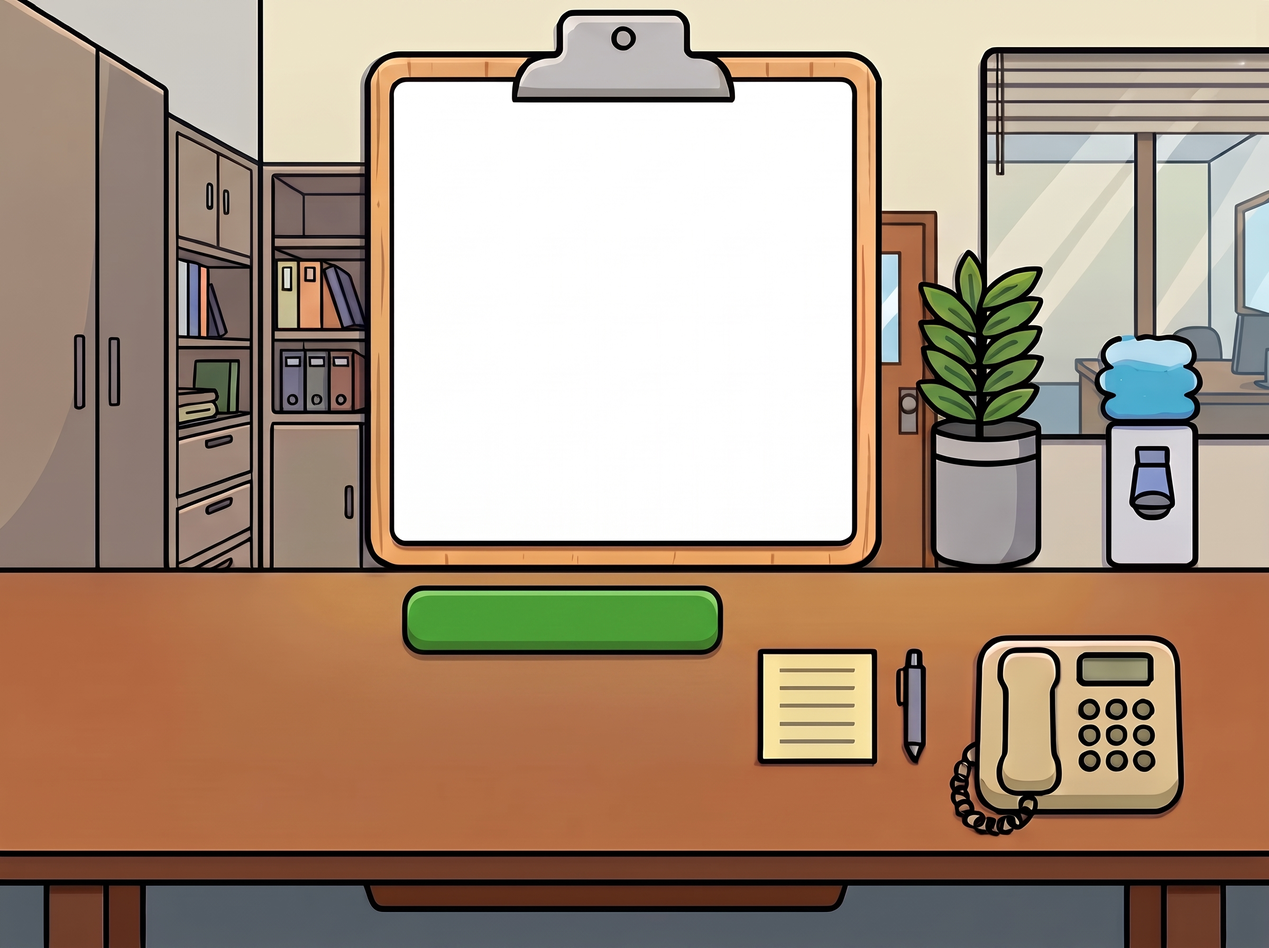
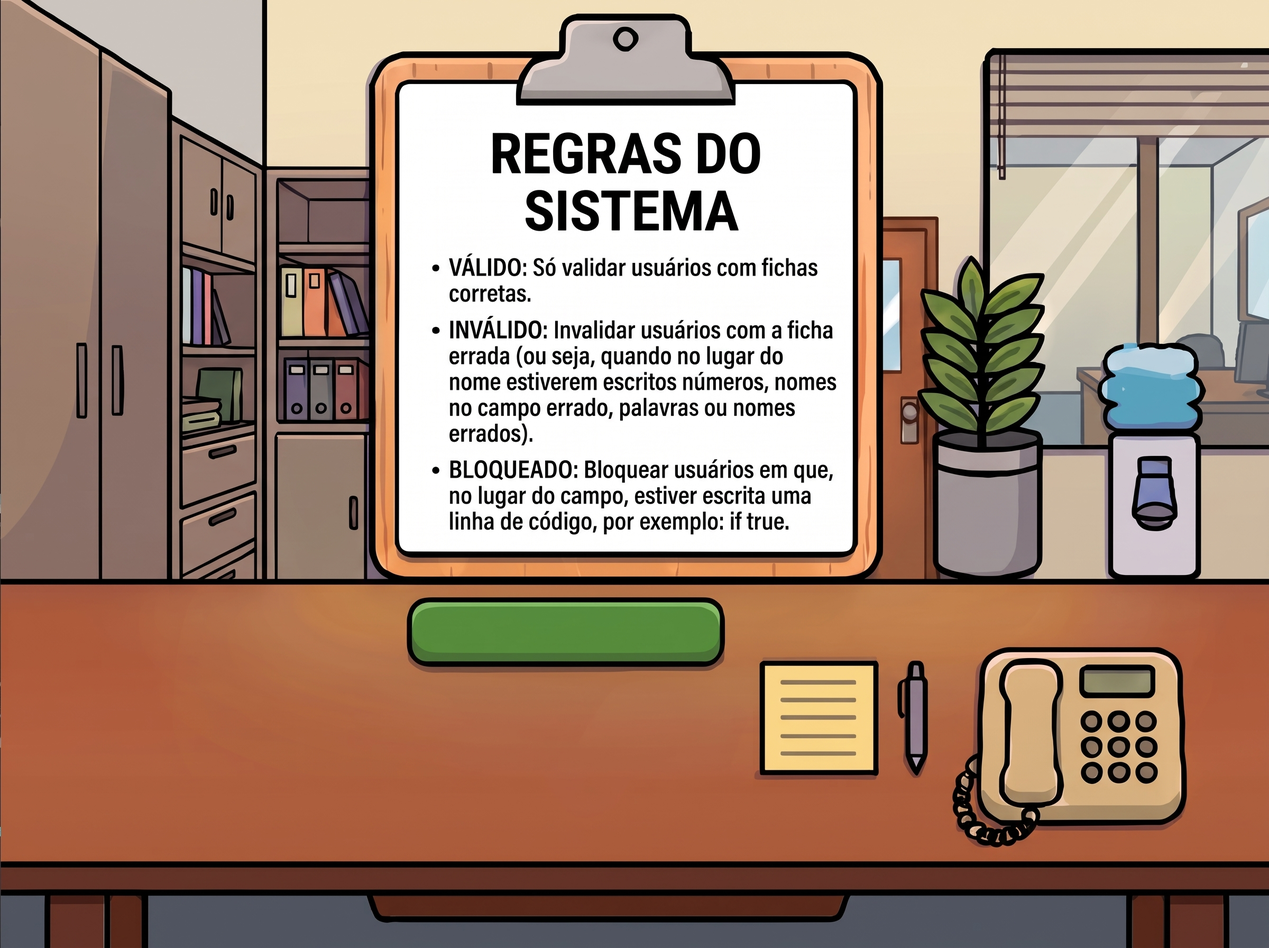
Parte-2 do trabalho. Adicionando fichas, telas, loops, pontuação, funções, dicionario, imagens e telas finais.

diff --git a/src/jogo.py b/src/jogo.py
@@ -1,95 +1,209 @@
 import sys
 import pygame
+from fichas import FICHAS
+from funcoes import avaliar_escolha, obter_mensagem_final
+from dados import criar_estado_inicial, salvar_recorde, carregar_recorde
 
 pygame.init()
 
-# Inicializar
-tela = pygame.display.set_mode((700, 600))
-pygame.display.set_caption("RPG: IA_Validação_de_sistema")
+# CONFIGURAÇÃO DA JANELA 
+LARGURA, ALTURA = 800, 600
+tela = pygame.display.set_mode((LARGURA, ALTURA))
+pygame.display.set_caption("Firewall.IA")
 
-# Imagens de fundo
-fundo_primeira = pygame.image.load("assets/imagens/escritorio/pag2.jpg").convert()
-fundo_primeira = pygame.transform.scale(fundo_primeira, (700, 600))
-
-fundo_segunda = pygame.image.load("assets/imagens/escritorio/pag1.jpg").convert()
-fundo_segunda = pygame.transform.scale(fundo_segunda, (700, 600))
-
-fundo_escritorio = pygame.image.load("assets/imagens/escritorio/escritorio.jpg").convert()
-fundo_escritorio = pygame.transform.scale(fundo_escritorio, (700, 600))
+# CARREGAR IMAGENS DE FUNDO
+fundo_inicio = pygame.transform.scale(
+    pygame.image.load("assets/imagens/escritorio/pag1.jpg").convert(), (LARGURA, ALTURA)
+)
+fundo_regras = pygame.transform.scale(
+    pygame.image.load("assets/imagens/escritorio/pag2.jpg").convert(), (LARGURA, ALTURA)
+)
+fundo_jogo = pygame.transform.scale(
+    pygame.image.load("assets/imagens/escritorio/escritorio.jpg").convert(), (LARGURA, ALTURA)
+)
 
 relogio = pygame.time.Clock()
 rodando = True
+tela_atual = "INICIO"  # Estados: "INICIO", "REGRAS", "JOGO", "FINAL"
 
-# Controla qual tela está ativa: "INICIO(pag1)", "REGRAS(pag2)" ou "JOGO(casos)"
-tela_atual = "INICIO"
+# ESTADO INICIAL DA PARTIDA
+estado = criar_estado_inicial()
+ARQUIVO_RECORDE = "recorde.txt"
+recorde = carregar_recorde(ARQUIVO_RECORDE)
 
-# Retângulos dos botões (ajuste as posições x, y se precisar alinhar com a sua arte)
-btn_jogar = pygame.Rect(200, 375, 220, 38)
-btn_continuar = pygame.Rect(200, 375, 220, 38) # Botão para sair das regras e ir pro jogo
+# BOTÕES CLICÁVEIS   
+btn_jogar = pygame.Rect(255, 372, 195, 45) # Botão jogar
+btn_iniciar = pygame.Rect(255, 375, 195, 45) # Botão iniciar
+btn_valido = pygame.Rect(125, 380, 215, 35)  # Botão verde VÁLIDO
+btn_invalido = pygame.Rect(130, 430, 215, 35) # Botão amarelo INVÁLIDO
+btn_bloqueado = pygame.Rect(140, 480, 215, 35) # Botão vermelho BLOQUEADO
+btn_reiniciar = pygame.Rect(280, 400, 240, 45) # Botão na tela final
 
-btn_valido = pygame.Rect(100, 380, 220, 35)
-btn_invalido = pygame.Rect(100, 430, 235, 35)
-btn_bloqueado = pygame.Rect(100, 480, 260, 35)
+# Fontes
+fonte_titulo = pygame.font.SysFont("Arial", 22, bold=True)
+fonte_texto = pygame.font.SysFont("Arial", 18, bold=True)
+fonte_botao = pygame.font.SysFont("Arial", 20, bold=True)
 
-fonte = pygame.font.SysFont("Arial", 24, bold=True)
+
+def carregar_foto_ficha(ficha):
+    """Carrega a imagem do personagem da ficha atual."""
+    caminho = ficha.get("imagem", "")
+    if caminho:
+        try:
+            img = pygame.image.load(caminho).convert_alpha()
+            return pygame.transform.scale(img, (80, 80))
+        except FileNotFoundError:
+            return None
+    return None
+
+
+def desenhar_texto_quebrado(superficie, texto, fonte, cor, x, y, largura_maxima):
+    """Quebra o texto em duas linhas caso o nome seja muito comprido para a prancheta."""
+    palavras = texto.split(" ")
+    linhas = []
+    linha_atual = ""
+
+    for palavra in palavras:
+        teste = f"{linha_atual} {palavra}".strip()
+        if fonte.size(teste)[0] <= largura_maxima:
+            linha_atual = teste
+        else:
+            linhas.append(linha_atual)
+            linha_atual = palavra
+    if linha_atual:
+        linhas.append(linha_atual)
+
+    for i, linha in enumerate(linhas):
+        render = fonte.render(linha, True, cor)
+        superficie.blit(render, (x, y + i * 22))
+
+    return len(linhas)
+
+
+foto_atual = carregar_foto_ficha(FICHAS[0])
 
 while rodando:
-    # 1. EVENTOS (Cliques e Teclado)
+    # 1. APENAS EVENTOS E CLIQUES AQUI DENTRO
     for evento in pygame.event.get():
         if evento.type == pygame.QUIT:
             rodando = False
 
-        # Clique do mouse
         if evento.type == pygame.MOUSEBUTTONDOWN and evento.button == 1:
             if tela_atual == "INICIO":
                 if btn_jogar.collidepoint(evento.pos):
                     tela_atual = "REGRAS"
 
             elif tela_atual == "REGRAS":
-                
-                # Clique no botão ou em qualquer lugar para avançar pro jogo
-                if btn_continuar.collidepoint(evento.pos):
+                if btn_iniciar.collidepoint(evento.pos):
                     tela_atual = "JOGO"
-            
 
             elif tela_atual == "JOGO":
+                escolha = None
                 if btn_valido.collidepoint(evento.pos):
-                    print("VÁLIDO!")
+                    escolha = "valido"
                 elif btn_invalido.collidepoint(evento.pos):
-                    print("INVÁLIDO!")
+                    escolha = "invalido"
                 elif btn_bloqueado.collidepoint(evento.pos):
-                    print("BLOQUEADO!")
+                    escolha = "bloqueado"
 
-        # Teclado (Enter avança das regras para o jogo)
-        if evento.type == pygame.KEYDOWN:
-            if tela_atual == "REGRAS" and evento.key == pygame.K_RETURN:
-                tela_atual = "JOGO"
+                if escolha is not None:
+                    ficha_atual = FICHAS[estado["indice_ficha"]]
+                    (
+                        estado["pontos"],
+                        estado["houve_invasao"],
+                        estado["houve_erro"],
+                    ) = avaliar_escolha(
+                        ficha_atual,
+                        escolha,
+                        estado["pontos"],
+                        estado["houve_invasao"],
+                        estado["houve_erro"],
+                    )
 
-    # 2. DESENHO DAS TELAS (Separado por estado!)
+                    estado["indice_ficha"] += 1
+                    if estado["indice_ficha"] < len(FICHAS):
+                        foto_atual = carregar_foto_ficha(FICHAS[estado["indice_ficha"]])
+                    else:
+                        if estado["pontos"] > recorde:
+                            recorde = estado["pontos"]
+                            salvar_recorde(ARQUIVO_RECORDE, recorde)
+                        tela_atual = "FINAL"
+
+            elif tela_atual == "FINAL":
+                if btn_reiniciar.collidepoint(evento.pos):
+                    estado = criar_estado_inicial()
+                    foto_atual = carregar_foto_ficha(FICHAS[0])
+                    tela_atual = "INICIO"
+
+    # Telas
     if tela_atual == "INICIO":
-        tela.blit(fundo_primeira, (0, 0))
-        txt_valido = fonte.render("JOGAR", True, (0, 0, 0))
-        tela.blit(txt_valido, txt_valido.get_rect(center=btn_jogar.center))
-        # Se a sua imagem pag2.jpg já tiver o botão desenhado, não precisa desenhar retângulo
+        tela.blit(fundo_inicio, (0, 0))
+        txt_jogar = fonte_botao.render("JOGAR", True, (0, 0, 0))
+        tela.blit(txt_jogar, txt_jogar.get_rect(center=btn_jogar.center))
 
     elif tela_atual == "REGRAS":
-        tela.blit(fundo_segunda, (0, 0))
-       
-        txt_cont = fonte.render("INICIAR", True, (0, 0, 0))
-        tela.blit(txt_cont, txt_cont.get_rect(center=btn_continuar.center))
+        tela.blit(fundo_regras, (0, 0))
+        txt_iniciar = fonte_botao.render("INICIAR", True, (0, 0, 0))
+        tela.blit(txt_iniciar, txt_iniciar.get_rect(center=btn_iniciar.center))
 
     elif tela_atual == "JOGO":
-        tela.blit(fundo_escritorio, (0, 0))
+        tela.blit(fundo_jogo, (0, 0))
+        ficha_atual = FICHAS[estado["indice_ficha"]]
 
-        # Renderizar e centralizar os textos dentro de cada Rect
-        txt_valido = fonte.render("VÁLIDO", True, (0, 0, 0))
+        # Textos em cima dos botões já desenhados na imagem
+        txt_valido = fonte_botao.render("VÁLIDO", True, (0, 0, 0))
         tela.blit(txt_valido, txt_valido.get_rect(center=btn_valido.center))
 
-        txt_invalido = fonte.render("INVÁLIDO", True, (0, 0, 0))
+        txt_invalido = fonte_botao.render("INVÁLIDO", True, (0, 0, 0))
         tela.blit(txt_invalido, txt_invalido.get_rect(center=btn_invalido.center))
 
-        txt_bloqueado = fonte.render("BLOQUEADO", True, (0, 0, 0))
+        txt_bloqueado = fonte_botao.render("BLOQUEADO", True, (0, 0, 0))
         tela.blit(txt_bloqueado, txt_bloqueado.get_rect(center=btn_bloqueado.center))
+
+        # Título e foto na prancheta
+        txt_cabecalho = fonte_titulo.render("Ficha de Cadastro", True, (0, 0, 0))
+        tela.blit(txt_cabecalho, (275, 78))
+
+        if foto_atual:
+            tela.blit(foto_atual, (275, 110))
+
+        # Dados do usuário
+        linhas_nome = desenhar_texto_quebrado(
+            tela, f"NOME: {ficha_atual['nome']}", fonte_texto, (0, 0, 0), 275, 200, 260
+        )
+        deslocamento_y = 200 + (linhas_nome * 24) + 5
+
+        txt_idade = fonte_texto.render(f"IDADE: {ficha_atual['idade']}", True, (0, 0, 0))
+        txt_cep = fonte_texto.render(f"CEP: {ficha_atual['cep']}", True, (0, 0, 0))
+
+        tela.blit(txt_idade, (275, deslocamento_y))
+        tela.blit(txt_cep, (275, deslocamento_y + 28))
+
+        # Placar e progresso no canto superior esquerdo
+        txt_pontos = fonte_texto.render(f"Pontos: {estado['pontos']}", True, (255, 255, 255))
+        txt_progresso = fonte_texto.render(
+            f"Ficha: {estado['indice_ficha'] + 1}/{len(FICHAS)}", True, (255, 255, 255)
+        )
+        tela.blit(txt_pontos, (20, 20))
+        tela.blit(txt_progresso, (20, 45))
+
+    elif tela_atual == "FINAL":
+        tela.fill((25, 30, 45))
+        mensagem = obter_mensagem_final(estado["houve_invasao"], estado["houve_erro"])
+
+        txt_fim = fonte_titulo.render(mensagem, True, (255, 255, 255))
+        txt_placar = fonte_texto.render(
+            f"Pontuação final: {estado['pontos']}  |  Recorde: {recorde}",
+            True,
+            (200, 220, 255),
+        )
+
+        tela.blit(txt_fim, txt_fim.get_rect(center=(LARGURA // 2, 240)))
+        tela.blit(txt_placar, txt_placar.get_rect(center=(LARGURA // 2, 300)))
+
+        pygame.draw.rect(tela, (80, 180, 90), btn_reiniciar, border_radius=8)
+        txt_reiniciar = fonte_botao.render("JOGAR NOVAMENTE", True, (0, 0, 0))
+        tela.blit(txt_reiniciar, txt_reiniciar.get_rect(center=btn_reiniciar.center))
 
     pygame.display.flip()
     relogio.tick(60)

diff --git a/src/fichas.py b/src/fichas.py
@@ -22,15 +22,15 @@ FICHAS = [
     },
     {
         "nome": "Grok",
-        "idade": "F45D98A666",
+        "idade": "IF45D98A666",
         "cep": "EUA",
         "tipo": "hacker",
         "imagem": "assets/imagens/personagens/grok.png"
     },
     {
         "nome": "Sam",
-        "idade": "RAM RAM RAM RAM RAM RAM RAM",
-        "cep": "EUA",
+        "idade": "RAM RAM RAM RAM",
+        "cep": "if Sam: return True",
         "tipo": "hacker",
         "imagem": "assets/imagens/personagens/sam.png"
     },
@@ -58,7 +58,7 @@ FICHAS = [
     {
         "nome": "Bryan Smith",
         "idade": "25",
-        "cep": "Portugal",
+        "cep": "Portugual",
         "tipo": "Invalido",
         "imagem": "assets/imagens/personagens/bryan_smith.png"
     },

diff --git a/src/funcoes.py b/src/funcoes.py
@@ -18,7 +18,7 @@ MENSAGENS_FINAIS = {
 
 
 def avaliar_escolha(ficha, escolha_jogador, pontos_atuais, houve_invasao, houve_erro):
-    tipo_real = ficha["tipo"]
+    tipo_real = ficha["tipo"].lower()
 
     if (tipo_real, escolha_jogador) in ESCOLHAS_DE_INVASAO:
         pontos_atuais = 0
